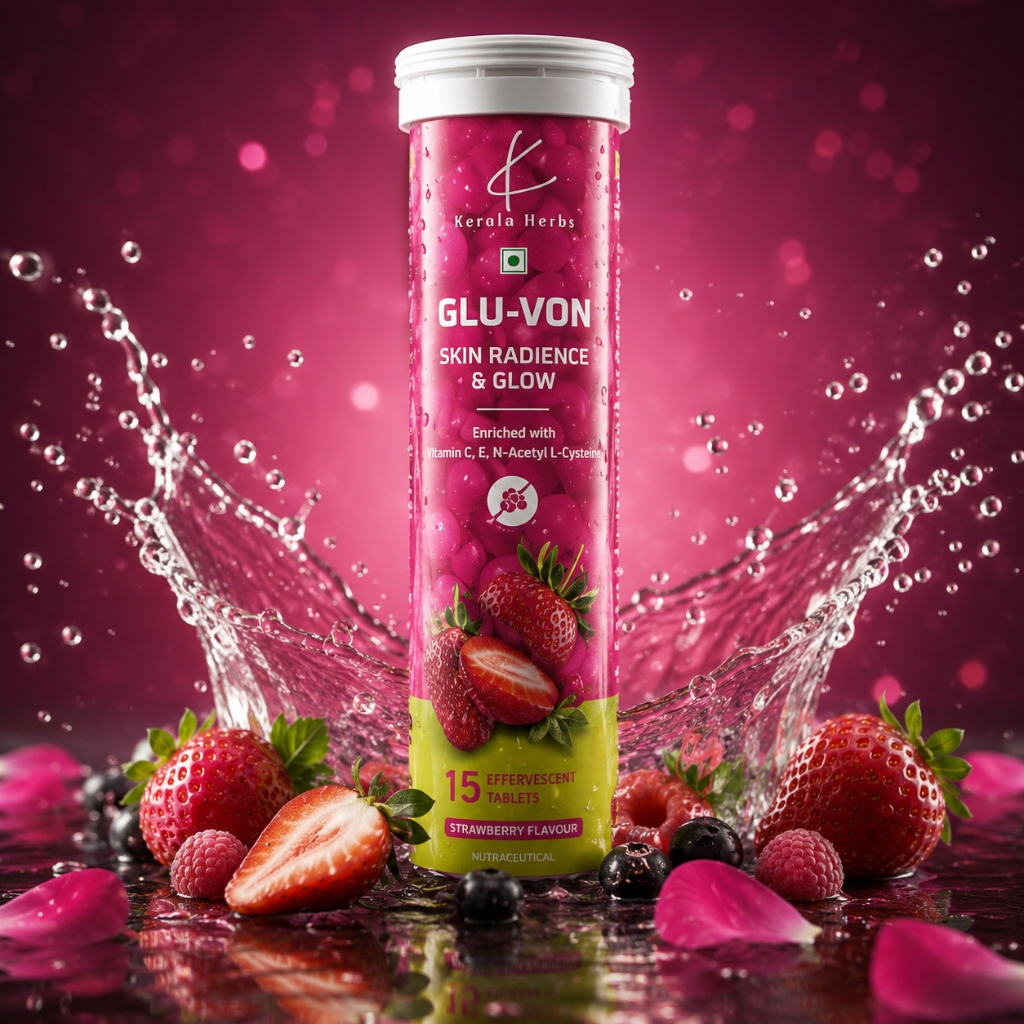
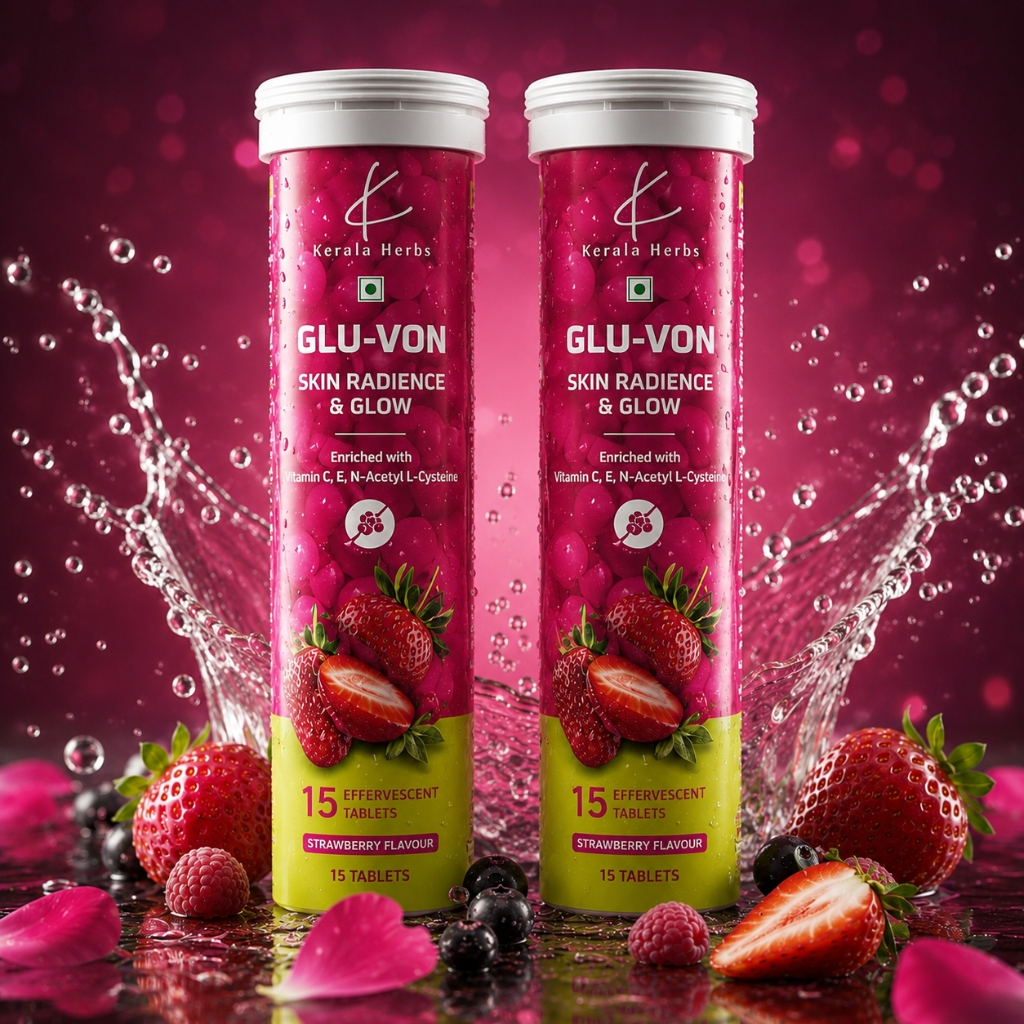
Refactor: Updated GLU-VON single/double course details & image, updated Herba Smooth pricing to 580, updated active reviews counts and 5-star ratings, and set correct product card WhatsApp support numbers

diff --git a/products.html b/products.html
@@ -45,8 +45,9 @@
           "image": "https://thekeralaherbs.com/assets/gluvon.jpg",
           "description": "Premium L-Glutathione effervescent tablets enriched with Vitamin C, E, and N-Acetyl L-Cysteine for skin radiance and glow.",
           "offers": {
-            "@type": "Offer",
-            "price": "750",
+            "@type": "AggregateOffer",
+            "lowPrice": "780",
+            "highPrice": "1500",
             "priceCurrency": "INR",
             "availability": "https://schema.org/InStock",
             "url": "https://thekeralaherbs.com/products.html"
@@ -80,7 +81,7 @@
           "description": "100% natural, herbal painless hair removal powder that removes unwanted body hair easily, leaving skin soft and smooth.",
           "offers": {
             "@type": "Offer",
-            "price": "550",
+            "price": "580",
             "priceCurrency": "INR",
             "availability": "https://schema.org/InStock",
             "url": "https://thekeralaherbs.com/products.html"
@@ -166,13 +167,21 @@
             </div>
             <img src="assets/gluvon.jpg" alt="Glu Von Tablets" class="product-image" loading="lazy">
           </div>
-          <div class="product-info-wrapper">
             <div class="product-rating">
               <span class="rating-stars"><i class="fa-solid fa-star"></i><i class="fa-solid fa-star"></i><i class="fa-solid fa-star"></i><i class="fa-solid fa-star"></i><i class="fa-solid fa-star"></i></span>
-              <span class="rating-count">(489 reviews)</span>
+              <span class="rating-count">(1432 reviews)</span>
             </div>
             <h3 class="product-title">GLU VON</h3>
-            <p style="font-size: 0.85rem; font-weight: 700; color: var(--secondary-dark); text-transform: uppercase; letter-spacing: 1px; margin-bottom: 8px;">1 Bottle (15 Effervescent Tablets)</p>
+            <p style="font-size: 0.85rem; font-weight: 700; color: var(--secondary-dark); text-transform: uppercase; letter-spacing: 1px; margin-bottom: 8px;">1 Month Course (2 Bottles)</p>
+            <div style="background-color: var(--bg-cream); border-radius: var(--radius-sm); padding: 8px 12px; margin-bottom: 12px; font-size: 0.9rem; border: 1px solid var(--border-color);">
+              <span style="font-weight: 700; color: var(--primary-dark);">Available Options:</span>
+              <div style="display: flex; justify-content: space-between; margin-top: 4px;">
+                <span>• Single (15 Days Course - 1 Bottle):</span> <span style="font-weight: 700; color: var(--primary);">₹780</span>
+              </div>
+              <div style="display: flex; justify-content: space-between;">
+                <span>• Double (30 Days Course - 2 Bottles):</span> <span style="font-weight: 700; color: var(--primary);">₹1,500 <span style="font-size: 0.75rem; text-decoration: line-through; color: var(--text-muted); opacity: 0.7;">(₹1,800)</span></span>
+              </div>
+            </div>
             <p class="product-description">Premium L-Glutathione effervescent tablets enriched with Vitamin C, E, and N-Acetyl L-Cysteine. Designed for maximum absorption to support skin radiance, glow, and internal antioxidant defense.</p>
             <ul class="product-highlights">
               <li class="product-highlight-item"><i class="fa-solid fa-circle-check"></i> Supports radiant &amp; glowing skin</li>
@@ -180,11 +189,9 @@
               <li class="product-highlight-item"><i class="fa-solid fa-circle-check"></i> Delicious strawberry flavor drink</li>
             </ul>
             <div class="product-price-row">
-              <span class="price-current">₹750</span>
-              <span class="price-original">₹900</span>
-              <span class="price-save">Save ₹150</span>
+              <span class="price-current">₹780 - ₹1,500</span>
             </div>
-            <a href="https://wa.me/918138815490?text=Hi%20Kerala%20Herbs!%20I%27d%20like%20to%20order%20GLU%20VON%20effervescent%20tablets%20%281%20Bottle%20-%2015%20Tabs%20for%20%E2%82%B9750%29.%20Please%20share%20details%20on%20price%20and%20delivery." target="_blank" class="btn btn-whatsapp" id="btn-buy-gluvon">
+            <a href="https://wa.me/919207167156?text=Hi%20Kerala%20Herbs!%20I%27d%20like%20to%20order%20GLU%20VON%20tablets.%20Please%20share%20details%20for%20Single%20%28%E2%82%B9780%29%20or%20Double%20%28%E2%82%B91500%29%20course." target="_blank" class="btn btn-whatsapp" id="btn-buy-gluvon">
               <i class="fa-brands fa-whatsapp"></i> Buy Now via WhatsApp
             </a>
           </div>
@@ -201,8 +208,8 @@
           </div>
           <div class="product-info-wrapper">
             <div class="product-rating">
-              <span class="rating-stars"><i class="fa-solid fa-star"></i><i class="fa-solid fa-star"></i><i class="fa-solid fa-star"></i><i class="fa-solid fa-star"></i><i class="fa-solid fa-star-half-stroke"></i></span>
-              <span class="rating-count">(324 reviews)</span>
+              <span class="rating-stars"><i class="fa-solid fa-star"></i><i class="fa-solid fa-star"></i><i class="fa-solid fa-star"></i><i class="fa-solid fa-star"></i><i class="fa-solid fa-star"></i></span>
+              <span class="rating-count">(751 reviews)</span>
             </div>
             <h3 class="product-title">PURE GLOW</h3>
             <p style="font-size: 0.85rem; font-weight: 700; color: var(--secondary-dark); text-transform: uppercase; letter-spacing: 1px; margin-bottom: 8px;">Hyperpigmentation Cream (50 GM)</p>
@@ -217,7 +224,7 @@
               <span class="price-original">₹1,199</span>
               <span class="price-save">Save ₹600</span>
             </div>
-            <a href="https://wa.me/919037583804?text=Hi%20Kerala%20Herbs!%20I%27d%20like%20to%20order%20PURE%20GLOW%20cream%20%28for%20%E2%82%B9599%29.%20Please%20share%20details%20on%20price%20and%20delivery." target="_blank" class="btn btn-whatsapp" id="btn-buy-pureglow">
+            <a href="https://wa.me/919074399057?text=Hi%20Kerala%20Herbs!%20I%27d%20like%20to%20order%20PURE%20GLOW%20cream%20%28for%20%E2%82%B9599%29.%20Please%20share%20details%20on%20price%20and%20delivery." target="_blank" class="btn btn-whatsapp" id="btn-buy-pureglow">
               <i class="fa-brands fa-whatsapp"></i> Buy Now via WhatsApp
             </a>
           </div>
@@ -235,7 +242,7 @@
           <div class="product-info-wrapper">
             <div class="product-rating">
               <span class="rating-stars"><i class="fa-solid fa-star"></i><i class="fa-solid fa-star"></i><i class="fa-solid fa-star"></i><i class="fa-solid fa-star"></i><i class="fa-solid fa-star"></i></span>
-              <span class="rating-count">(512 reviews)</span>
+              <span class="rating-count">(2137 reviews)</span>
             </div>
             <h3 class="product-title">HERBA SMOOTH</h3>
             <p style="font-size: 0.85rem; font-weight: 700; color: var(--secondary-dark); text-transform: uppercase; letter-spacing: 1px; margin-bottom: 8px;">Hair Removal Powder (50 GM)</p>
@@ -246,11 +253,11 @@
               <li class="product-highlight-item"><i class="fa-solid fa-circle-check"></i> Zero skin darkening, irritation, or rashes</li>
             </ul>
             <div class="product-price-row">
-              <span class="price-current">₹550</span>
+              <span class="price-current">₹580</span>
               <span class="price-original">₹660</span>
-              <span class="price-save">Save ₹110</span>
+              <span class="price-save">Save ₹80</span>
             </div>
-            <a href="https://wa.me/918137993739?text=Hi%20Kerala%20Herbs!%20I%27d%20like%20to%20order%20HERBA%20SMOOTH%20hair%20removal%20powder%20%28for%20%E2%82%B9550%29.%20Please%20share%20details%20on%20price%20and%20delivery." target="_blank" class="btn btn-whatsapp" id="btn-buy-herbasmooth">
+            <a href="https://wa.me/918137993739?text=Hi%20Kerala%20Herbs!%20I%27d%20like%20to%20order%20HERBA%20SMOOTH%20hair%20removal%20powder%20%28for%20%E2%82%B9580%29.%20Please%20share%20details%20on%20price%20and%20delivery." target="_blank" class="btn btn-whatsapp" id="btn-buy-herbasmooth">
               <i class="fa-brands fa-whatsapp"></i> Buy Now via WhatsApp
             </a>
           </div>
@@ -268,7 +275,7 @@
           <div class="product-info-wrapper">
             <div class="product-rating">
               <span class="rating-stars"><i class="fa-solid fa-star"></i><i class="fa-solid fa-star"></i><i class="fa-solid fa-star"></i><i class="fa-solid fa-star"></i><i class="fa-solid fa-star"></i></span>
-              <span class="rating-count">(642 reviews)</span>
+              <span class="rating-count">(252 reviews)</span>
             </div>
             <h3 class="product-title">NUTRI HAIR OIL</h3>
             <p style="font-size: 0.85rem; font-weight: 700; color: var(--secondary-dark); text-transform: uppercase; letter-spacing: 1px; margin-bottom: 8px;">21 Active Herbal Extract</p>
@@ -324,7 +331,7 @@
               <span class="offer-price-original">₹2,500</span>
               <span class="offer-price-save">Save 20%</span>
             </div>
-            <a href="https://wa.me/919539716715?text=Hi%20Kerala%20Herbs!%20I%27d%20like%20to%20order%20the%203-Pack%20Herbal%20Wellness%20Combo%20%282%20GLU-VON%20%2B%201%20Pure%20Glow%20for%20%E2%82%B91999%29.%20Please%20share%20payment%20and%20delivery%20details." target="_blank" class="btn btn-whatsapp" style="width: 100%; text-align: center; justify-content: center;">
+            <a href="https://wa.me/919074399057?text=Hi%20Kerala%20Herbs!%20I%27d%20like%20to%20order%20the%203-Pack%20Herbal%20Wellness%20Combo%20%282%20GLU-VON%20%2B%201%20Pure%20Glow%20for%20%E2%82%B91999%29.%20Please%20share%20payment%20and%20delivery%20details." target="_blank" class="btn btn-whatsapp" style="width: 100%; text-align: center; justify-content: center;">
               <i class="fa-brands fa-whatsapp"></i> Order Combo on WhatsApp
             </a>
           </div>
@@ -344,7 +351,7 @@
               <span class="offer-price-original">₹2,000</span>
               <span class="offer-price-save">Save 25%</span>
             </div>
-            <a href="https://wa.me/919539716715?text=Hi%20Kerala%20Herbs!%20I%27d%20like%20to%20order%20the%202-Pack%20Radiance%20Duo%20Combo%20%281%20GLU-VON%20%2B%201%20Pure%20Glow%20for%20%E2%82%B91499%29.%20Please%20share%20payment%20and%20delivery%20details." target="_blank" class="btn btn-whatsapp" style="width: 100%; text-align: center; justify-content: center;">
+            <a href="https://wa.me/919074399057?text=Hi%20Kerala%20Herbs!%20I%27d%20like%20to%20order%20the%202-Pack%20Radiance%20Duo%20Combo%20%281%20GLU-VON%20%2B%201%20Pure%20Glow%20for%20%E2%82%B91499%29.%20Please%20share%20payment%20and%20delivery%20details." target="_blank" class="btn btn-whatsapp" style="width: 100%; text-align: center; justify-content: center;">
               <i class="fa-brands fa-whatsapp"></i> Order Combo on WhatsApp
             </a>
           </div>

diff --git a/index.html b/index.html
@@ -229,7 +229,7 @@
               <span class="offer-price-original">₹2,500</span>
               <span class="offer-price-save">Save 20%</span>
             </div>
-            <a href="https://wa.me/919539716715?text=Hi%20Kerala%20Herbs!%20I%27d%20like%20to%20order%20the%203-Pack%20Herbal%20Wellness%20Combo%20%282%20GLU-VON%20%2B%201%20Pure%20Glow%20for%20%E2%82%B91999%29.%20Please%20share%20payment%20and%20delivery%20details." target="_blank" class="btn btn-whatsapp" style="width: 100%; text-align: center; justify-content: center;">
+            <a href="https://wa.me/919074399057?text=Hi%20Kerala%20Herbs!%20I%27d%20like%20to%20order%20the%203-Pack%20Herbal%20Wellness%20Combo%20%282%20GLU-VON%20%2B%201%20Pure%20Glow%20for%20%E2%82%B91999%29.%20Please%20share%20payment%20and%20delivery%20details." target="_blank" class="btn btn-whatsapp" style="width: 100%; text-align: center; justify-content: center;">
               <i class="fa-brands fa-whatsapp"></i> Order Combo on WhatsApp
             </a>
           </div>
@@ -249,7 +249,7 @@
               <span class="offer-price-original">₹2,000</span>
               <span class="offer-price-save">Save 25%</span>
             </div>
-            <a href="https://wa.me/919539716715?text=Hi%20Kerala%20Herbs!%20I%27d%20like%20to%20order%20the%202-Pack%20Radiance%20Duo%20Combo%20%281%20GLU-VON%20%2B%201%20Pure%20Glow%20for%20%E2%82%B91499%29.%20Please%20share%20payment%20and%20delivery%20details." target="_blank" class="btn btn-whatsapp" style="width: 100%; text-align: center; justify-content: center;">
+            <a href="https://wa.me/919074399057?text=Hi%20Kerala%20Herbs!%20I%27d%20like%20to%20order%20the%202-Pack%20Radiance%20Duo%20Combo%20%281%20GLU-VON%20%2B%201%20Pure%20Glow%20for%20%E2%82%B91499%29.%20Please%20share%20payment%20and%20delivery%20details." target="_blank" class="btn btn-whatsapp" style="width: 100%; text-align: center; justify-content: center;">
               <i class="fa-brands fa-whatsapp"></i> Order Combo on WhatsApp
             </a>
           </div>
